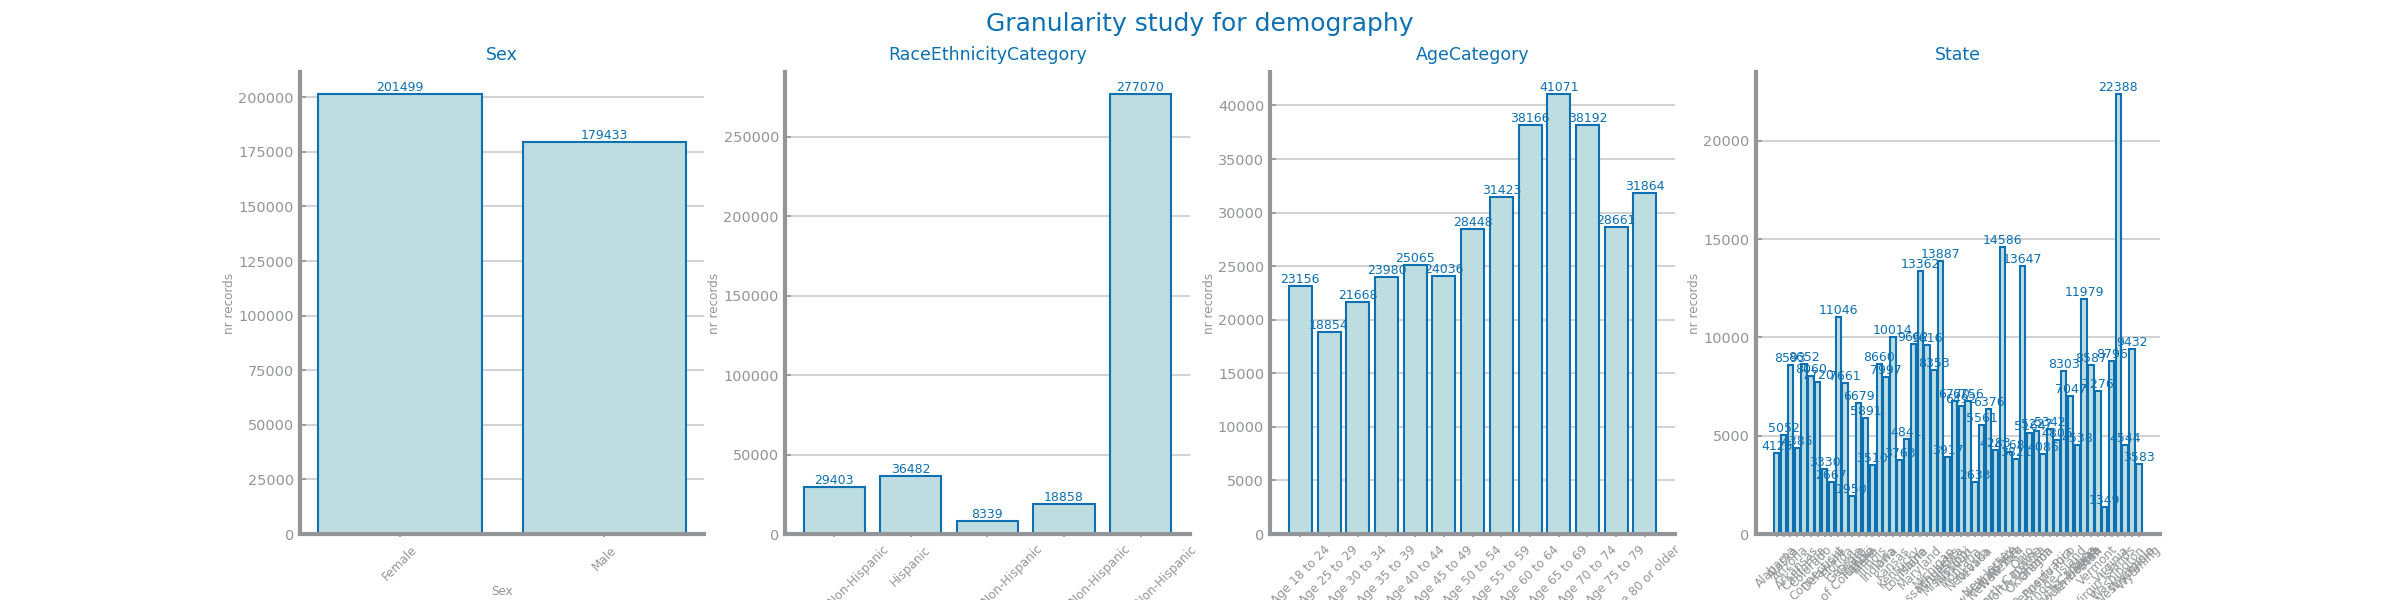
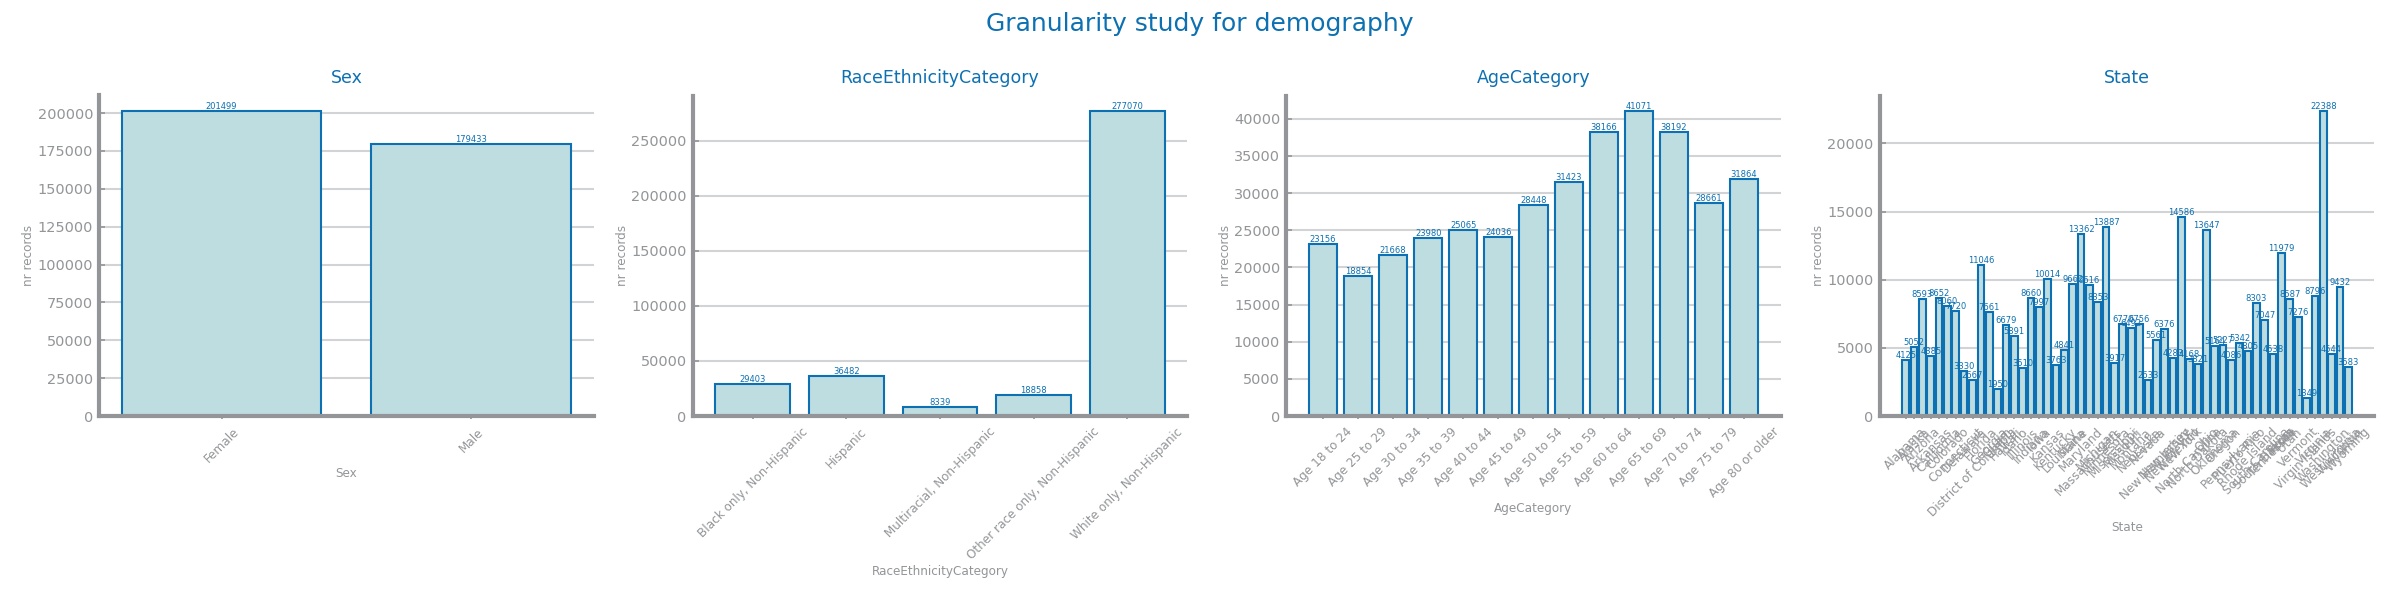
unpdate to text font; update to submit images

diff --git a/profiling/distribution.py b/profiling/distribution.py
@@ -12,6 +12,7 @@ file:       distribution.py
 
 # Imports
 from numpy import ndarray, log
+import matplotlib.pyplot as plt
 from matplotlib.axes import Axes
 from matplotlib.figure import Figure
 from matplotlib.pyplot import figure, savefig, show, subplots, xticks
@@ -19,6 +20,7 @@ from pandas import Series
 from auxiliar.dslabs_functions import HEIGHT, count_outliers, define_grid, get_variable_types, plot_bar_chart, \
     plot_multibar_chart, plot_multiline_chart
 from scipy.stats import norm, expon, lognorm
+from auxiliar.dslabs_functions import set_chart_labels
 
 
 class Distribution():
@@ -169,6 +171,30 @@ class Distribution():
             xlabel=var,
             ylabel="",
         )
+    
+    def histogram_numeric(self):
+        numeric = self.get_numeric_variables()
+        if [] != numeric:
+            rows, cols = define_grid(len(numeric))
+            _, axs = subplots(
+                rows, cols, figsize=(cols * HEIGHT, rows * HEIGHT), squeeze=False
+            )
+            i: int
+            j: int
+            i, j = 0, 0
+            for n in range(len(numeric)):
+                set_chart_labels(
+                    axs[i, j],
+                    title=f"Histogram for {numeric[n]}",
+                    xlabel=numeric[n],
+                    ylabel="nr records",
+                )
+                axs[i, j].hist(self.data[numeric[n]].dropna().values, "auto")
+                i, j = (i + 1, 0) if (n + 1) % cols == 0 else (i, j + 1)
+            plt.tight_layout()
+            savefig(f"images/{self.file_tag}_single_histograms_numeric.png")
+        else:
+            print("There are no numeric variables.")
 
     def histograms_numeric_with_distributions(self):
         numeric = self.get_numeric_variables()
@@ -177,10 +203,14 @@ class Distribution():
             _, axs = subplots(
                 rows, cols, figsize=(cols * HEIGHT, rows * HEIGHT), squeeze=False
             )
+            i: int
+            j: int
             i, j = 0, 0
             for n in range(len(numeric)):
+                print(f'histogram for numeric: {n}\n{self.data[numeric[n]]}')
                 self.histogram_with_distributions(axs[i, j], self.data[numeric[n]].dropna(), numeric[n])
                 i, j = (i + 1, 0) if (n + 1) % cols == 0 else (i, j + 1)
+            plt.tight_layout()
             savefig(f"images/{self.file_tag}_histogram_numeric_distribution.png")
             show()
         else:
@@ -206,7 +236,8 @@ class Distribution():
                     percentage=False,
                 )
                 i, j = (i + 1, 0) if (n + 1) % cols == 0 else (i, j + 1)
-            savefig(f"images/{self.file_tag}_histograms_symbolic.png")
+            plt.tight_layout()
+            savefig(f"images/{self.file_tag}_histograms_symbolic.png",bbox_inches='tight')
             show()
         else:
             print("There are no symbolic variables.")

diff --git a/profiling/granularity.py b/profiling/granularity.py
@@ -6,8 +6,9 @@ file:       granularity.py
 
 # Imports
 from numpy import ndarray
+import matplotlib.pyplot as plt
 from matplotlib.figure import Figure
-from matplotlib.pyplot import savefig, subplots
+from matplotlib.pyplot import savefig, subplots, show
 from pandas import Series
 from auxiliar.dslabs_functions import HEIGHT, plot_bar_chart, plot_multi_scatters_chart
 
@@ -40,4 +41,6 @@ class Granularity:
                 percentage=False,
             )
         # FIXME plt.tight_layout()? not good solution
+        plt.tight_layout()
         savefig(f"images/{self.file_tag}_{property}_granularity.png")
+        show()

diff --git a/auxiliar/dslabs_functions.py b/auxiliar/dslabs_functions.py
@@ -27,7 +27,7 @@ NR_COLUMNS: int = 3
 HEIGHT: int = 4
 
 TEXT_MARGIN = 0.05
-FONT_SIZE = 6
+FONT_SIZE = 4
 FONT_TEXT = FontProperties(size=FONT_SIZE)
 
 alpha = 0.3
